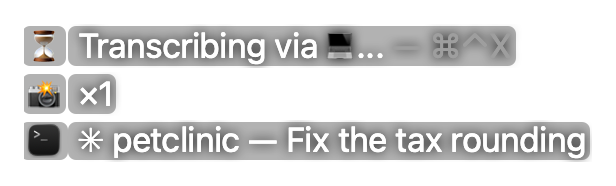
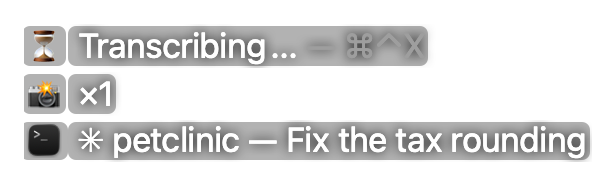
The local model's wait row is the plain `Transcribing...` — no via, no 💻
Victor: "Vreau in tooltip doar Transcribing... Fără emoji de laptop și fără via.
Să pară via doar dacă folosim serviciile cloud, gen [Wispr] Flow sau ElevenLabs.
Altfel să stea doar simplificat". AppDelegate.mark(engine:) sends an empty mark
for the local model, on the Transcribing row only; the Prompting row, the 💻
flashes and the ⌘⌃X hints are unchanged.

Changed region(s): [[0.4318, 0.1344, 0.8636, 0.3763]]

diff --git a/Sources/WalkieTalkie/OverlayStates.swift b/Sources/WalkieTalkie/OverlayStates.swift
@@ -388,7 +388,7 @@ enum OverlayStates {
                  note: "**`📻 Ready for more` is the top row** (2026-10-21, `Ready` until 2026-10-22, Victor: *\"even though it's transcribing, in the tooltip you should suggest ready whenever I could start talking again by displaying the walkie-talkie at the top of the list … literally saying ready\"*). The walkie and the row's ordinary ink, above the wait — **no green since 2026-10-22**, and the yellow flash of a changed row when it comes up (Victor: *\"să nu fie cu verde, ci același fond ca de obicei … flash-ul e galben ca de obicei și dispare\"*) — **on the word `Ready` alone** since 2026-10-23 (*\"cuvântul ready, nu și ready for more\"*), shown here at its brightest. Up from 0.8 s after the stop (a start sooner is the same click) until the words land; never with nothing transcribing, so the chip at rest is what it always was. Not shown while two sentences are already in flight.",
                  shape: "chip", alpha: 0.80) { o in
                 o.setBound(label: "petclinic", folder: "petclinic@main", title: "✳ petclinic — Fix the tax rounding", icon: terminal)
-                o.setEngineMark(" via \(Glyphs.Engine.mac.rawValue)")
+                o.setEngineMark("")   // the local model: no `via`, no 💻 (2026-11-22)
                 o.setTranscribing(true)
                 o.setReadyForNext(true)
                 o.setShotCount(1)
@@ -433,12 +433,12 @@ enum OverlayStates {
 
             Shot(slug: "transcribing-fallback-now", group: "Dictating", title: "Fallback to local — the budget ran out",
                  when: "The count reached zero with the engine's words still out and the local decode not quite done.",
-                 note: "**At `now` the engine on the line is this Mac** (2026-10-22, Victor: *\"când treci la modelul local, în transcribing să înlocuiești … cu calculatorul … zici now și efectiv înlocuiești motorul cu local\"*): `Transcribing via 💻... — ⌘⌃X` (one laptop: the mark says it, 2026-10-23; `now` went 2026-10-27). `now`: the local words go in the moment the decode ahead finishes — usually already done at zero, so this frame lasts a few hundred milliseconds at most. A local model that heard nothing leaves the sentence to the engine and the row goes.",
+                 note: "**At `now` the engine on the line is this Mac** (2026-10-22, Victor: *\"când treci la modelul local, în transcribing să înlocuiești … cu calculatorul … zici now și efectiv înlocuiești motorul cu local\"*): `Transcribing... — ⌘⌃X` — the cloud's `via <logo>` goes and nothing takes its place since 2026-11-22 (Victor: *\"Fără emoji de laptop și fără via. Să pară via doar dacă folosim serviciile cloud\"*; `via 💻` from 2026-10-23, `now` went 2026-10-27). `now`: the local words go in the moment the decode ahead finishes — usually already done at zero, so this frame lasts a few hundred milliseconds at most. A local model that heard nothing leaves the sentence to the engine and the row goes.",
                  shape: "chip", alpha: 0.80) { o in
                 o.setBound(label: "petclinic", folder: "petclinic@main", title: "✳ petclinic — Fix the tax rounding", icon: terminal)
                 o.setTranscribing(true)
                 o.setShotCount(1)
-                o.setEngineMark(" via \(Glyphs.Engine.mac.rawValue)")
+                o.setEngineMark("")   // the local model: no `via`, no 💻 (2026-11-22)
                 o.pinTranscribeWarmth(1.0)
                 o.setLocalNow(true, countdown: 0)
             },

diff --git a/docs/overlay-states.html b/docs/overlay-states.html
@@ -525,7 +525,7 @@
         </header>
         <div class="shot"><img src="states/transcribing-fallback-now.png" width="308" height="93" style="opacity:0.8" alt="Fallback to local — the budget ran out"></div>
         <p class="when">The count reached zero with the engine&#x27;s words still out and the local decode not quite done.</p>
-        <p class="note"><strong>At <code>now</code> the engine on the line is this Mac</strong> (2026-10-22, Victor: <em>&quot;când treci la modelul local, în transcribing să înlocuiești … cu calculatorul … zici now și efectiv înlocuiești motorul cu local&quot;</em>): <code>Transcribing via 💻... — ⌘⌃X</code> (one laptop: the mark says it, 2026-10-23; <code>now</code> went 2026-10-27). <code>now</code>: the local words go in the moment the decode ahead finishes — usually already done at zero, so this frame lasts a few hundred milliseconds at most. A local model that heard nothing leaves the sentence to the engine and the row goes.</p>
+        <p class="note"><strong>At <code>now</code> the engine on the line is this Mac</strong> (2026-10-22, Victor: <em>&quot;când treci la modelul local, în transcribing să înlocuiești … cu calculatorul … zici now și efectiv înlocuiești motorul cu local&quot;</em>): <code>Transcribing... — ⌘⌃X</code> — the cloud&#x27;s <code>via &lt;logo&gt;</code> goes and nothing takes its place since 2026-11-22 (Victor: <em>&quot;Fără emoji de laptop și fără via. Să pară via doar dacă folosim serviciile cloud&quot;</em>; <code>via 💻</code> from 2026-10-23, <code>now</code> went 2026-10-27). <code>now</code>: the local words go in the moment the decode ahead finishes — usually already done at zero, so this frame lasts a few hundred milliseconds at most. A local model that heard nothing leaves the sentence to the engine and the row goes.</p>
         <code class="slug">transcribing-fallback-now</code>
       </section>
       <section class="card" id="listening-wispr-starting">
@@ -896,7 +896,7 @@
       </section>
     </div>
 <footer>
-  Generated from <code>OverlayStates.swift</code> · repo at 69068a35 · 22 Nov 2026 · built 22 Nov 2026, 11:18
+  Generated from <code>OverlayStates.swift</code> · repo at aea69dde · 22 Nov 2026 · built 22 Nov 2026, 11:29
 </footer>
 <button class="toggle" onclick="document.body.classList.toggle('light')">Backdrop: dark / light</button>
 </body>

diff --git a/Tests/WalkieTalkieTests/DictationEditorTests.swift b/Tests/WalkieTalkieTests/DictationEditorTests.swift
@@ -138,10 +138,17 @@ final class DictationEditorTests: XCTestCase {
         XCTAssertEqual(DictationEditor.message("x", nil, vocabulary: v), "<vocabulary>Devoxx, Rentea</vocabulary>\n<replacements>GVT → JWT</replacements>\n<dictation>x</dictation>")
     }
 
-    /// Two phases on one row: `Transcribing via <logo>...`, then `Redacting...` (2026-11-22).
-    func testTheWaitRowSaysTranscribingThenRedacting() {
+    /// The wait row's three strings (2026-11-22): plain for the local model,
+    /// `via <logo>` for a cloud engine, then `Redacting...`.
+    func testTheWaitRowsThreeStrings() {
         let gap = String(Glyphs.dotsGap)
-        XCTAssertEqual(RelayWindow.transcribeWord(engineMark: " via E"), "Transcribing via E\(gap)...")
+        let local = AppDelegate.mark(engine: "whisper")
+        XCTAssertEqual(local, "", "the local model: no via, no laptop")
+        XCTAssertEqual(RelayWindow.transcribeWord(engineMark: local), "Transcribing\(gap)...")
+        for (id, logo) in [("eleven", Glyphs.Engine.eleven), ("eleven-live", .eleven), ("wispr", .wispr)] {
+            XCTAssertEqual(RelayWindow.transcribeWord(engineMark: AppDelegate.mark(engine: id)),
+                           "Transcribing via \(logo.rawValue)\(gap)...", id)
+        }
         XCTAssertEqual(RelayWindow.redactingWord, "Redacting\(gap)...", "no engine mark, no tool's name")
     }
 

diff --git a/Sources/WalkieTalkie/AppDelegate.swift b/Sources/WalkieTalkie/AppDelegate.swift
@@ -364,7 +364,13 @@ final class AppDelegate: NSObject, NSApplicationDelegate {
     /// its own settings. Victor: *"poate să fie un pic mincinos să zici că
     /// asculți la microfonul lui Walkie … ar trebui să-i citești microfonul
     /// activ al lui Wispr"*. See `pushMicMark`.
-    private static func mark(engine id: String) -> String { " via " + engineMark(id) }
+    ///
+    /// **The local model has no mark: the row is the plain `Transcribing...`**
+    /// (2026-11-22, Victor: *"Vreau in tooltip doar Transcribing... Fără emoji
+    /// de laptop și fără via. Să pară via doar dacă folosim serviciile cloud,
+    /// gen [Wispr] Flow sau ElevenLabs. Altfel să stea doar simplificat"*). Only
+    /// this row — `Prompting → 💻` keeps its laptop (`pushMicMark`).
+    static func mark(engine id: String) -> String { id == "whisper" ? "" : " via " + engineMark(id) }
 
     /// **Whose microphone the chip names: whoever is doing the hearing.**
     /// Wispr is, while it holds a sentence (`isRecording`, or `wisprHearing` for

diff --git a/.claude/rules/overlay-chip.md b/.claude/rules/overlay-chip.md
@@ -63,7 +63,7 @@ yields to `--label`).
 | bound to a terminal | the destination app's icon + `petclinic@main`; the 🤖 is *replaced*. See *What the chip says when bound* |
 | bound to an app with no readable directory (a blind-paste target) | the icon + the app's own name — the one case where the icon has no subject beside it |
 | dictating | `🎤 Prompting → ⬮...` — the device emoji, then the recogniser's logo (see *The microphone breathes in front of the word*, below); **which microphone is hearing him** (2026-09-22 evening; `Listening(<glyph>/<letter>)...` from 2026-09-19, the letter alone from 2026-09-18). 🎙 Elgato Wave XLR · 💻 the built-in · 🎤 the DJI receiver · 🎧 Bose. A device that is none of the four leaves the mark empty and the row is the plain `Listening...` — *listening to* with nothing after it is worse than not saying it. **Pushed in as a string by `AppDelegate`** — the chip may not ask which device it means (`RelayWindow.setMicMark`), and it is re-read at every `dictationBegan`, because cables move between sentences. **The glyph is drawn as a picture** (`Glyphs.emoji` → `inline`, cached in `wordGlyphs`), never as a character in the string, and it is **always lit** while the letters ramp: a picture has no unlit state that reads as *not yet*, and dimming it by alpha is the halo problem the opaque grey exists to avoid |
-| transcribing | `Transcribing via <logo>...` — **which recogniser is actually reading it** (2026-09-22 evening). The logo is drawn in **exactly the row's ink** (`Glyphs.Engine` → `Glyphs.engine`, cached per colour in `wordGlyphs`): ElevenLabs' pause-in-a-ring, Wispr Flow's five bars traced off its own icon, 💻 for the local model (with `ᵥ` for non-published weights). Pushed as a string by `AppDelegate` (`setEngineMark`), carried as a **private-use character** so the chip still cannot branch on which engine it is; `transcribeString` gained `applyEngineText`'s *non-ASCII is a picture* branch the day the mark landed on this row, because until then every character in it was ASCII |
+| transcribing | `Transcribing via <logo>...` for a cloud engine, **the plain `Transcribing...` when the local model reads it** (2026-11-22; `via 💻` until then) — **which recogniser is actually reading it** (2026-09-22 evening). The logo is drawn in **exactly the row's ink** (`Glyphs.Engine` → `Glyphs.engine`, cached per colour in `wordGlyphs`): ElevenLabs' pause-in-a-ring, Wispr Flow's five bars traced off its own icon. Then `✍ Redacting...` while the Redactor rewrites a plain dictation. Pushed as a string by `AppDelegate` (`setEngineMark`), carried as a **private-use character** so the chip still cannot branch on which engine it is; `transcribeString` gained `applyEngineText`'s *non-ASCII is a picture* branch the day the mark landed on this row, because until then every character in it was ASCII |
 | the dictation was cancelled | `🗑 Cancelled` in the row `Listening…` was in — 1.5 s, swapped in and out **in one frame**; the oblique wipe that used to carry it both ways was removed on 2026-09-18 (*The chip swaps in one frame*). The 🗑 came back on 2026-09-02: it was dropped while a flash still drew the lone 🎙 title row above it, where Apple's lid-flying-off bin read as a second glyph on a two-glyph line; that row no longer appears under a flash, so the bin is the row's only picture |
 | dictating in Replace Wispr | **the drawn map pin alone** (2026-10-22, *"nu mai vreau să scrie efectiv caret, doar să apară acea iconiță"* — `identity` answers `""` for `caret` behind `pinGlyph` — `bind to send` keeps its words; `caret` behind it until then, `at caret` until 2026-10-04) — the same slot a spawn takes, and for the same reason |
 
@@ -349,6 +349,17 @@ yields to `--label`).
   it, and the logo **fills with it** since 2026-10-01 (it was always lit until then). The 💻, a colour
   emoji with no ink to take, is drawn at 35 % alpha until its step lights (`wordGlyph(lit:)`,
   2026-10-07, Victor: *"the laptop … should have a faded form and then it turns bright"*).
+- **The local model's row is the plain `Transcribing...` — no `via`, no 💻** (2026-11-22, Victor:
+  *"Vreau in tooltip doar Transcribing... Fără emoji de laptop și fără via. Să pară via doar dacă
+  folosim serviciile cloud, gen [Wispr] Flow sau ElevenLabs. Altfel să stea doar simplificat"*).
+  `AppDelegate.mark(engine:)` answers `""` for `whisper`, so the chip still does not know which
+  engine it is. **Only this row**: `Prompting → 💻`, the `💻 Fell back to local` / `Used local`
+  flashes, `💻 local in 3s` and the grey `— ⌘⌃X` tail keep theirs. A cloud sentence the local model
+  takes over mid-wait (the budget's `now`, ⌘⌃X, a failure) loses its `via <logo>` and nothing takes
+  its place; the bar keeps its **fraction** (`steps = count × warmth`, recomputed at the relayout),
+  so fewer letters are lit on the shorter word but the edge does not move back. Shots
+  `transcribing-ready`, `transcribing-fallback-now`; pinned by
+  `DictationEditorTests.testTheWaitRowsThreeStrings`.
 - **`✍ Redacting...` is the wait row's second phase** (2026-11-22, Victor: *"e mult text acolo … pe
   durata redacting-ului, îmi scrii «redacting» și-l colorezi iarăși"*; `Transcribing and redacting`
   for an hour before — never put it back). `Transcribing via <logo>...` is unchanged, Redactor on or
@@ -445,7 +456,7 @@ yields to `--label`).
   Victor: *"să se vadă minim 2 s"* — two showings in three lasted ≤ 1 s).
 - **The local fallback's shortcut is on the `Transcribing` line** while there is one: `Transcribing via <mark>...
   — ⌘⌃X` (`localNowInline`, `AutoLocal.inlineText`, grey — not part of the bar); the
-  `localNowRow` only while the sentence records. At `now` AppDelegate sets the engine mark to 💻.
+  `localNowRow` only while the sentence records. At `now` AppDelegate sets the engine mark to the local model's — 💻 until 2026-11-22, empty since (the plain `Transcribing...`).
   **No 💻 and no seconds on that line since 2026-10-27** (Victor: *"să nu mai spui emoji-ul de laptop,
   … nici câte secunde, că e stresant, ci doar progress bar-ul … lasă scurtătura cu gri la final, după
   un MDash"*) — `💻 in 3s ⌘⌃X` before; the bar is the countdown. Never put the digits back.

diff --git a/docs/journal.md b/docs/journal.md
@@ -16719,3 +16719,11 @@ measured 1.2–3.9 s on four). Up after the request leaves, down after the paste
 cost: one relayout at each edge, ink only between. He also believes the redactor runs only after a
 local transcription; in the code it runs for ElevenLabs too (`applies`: everything but Wispr Flow) —
 left as is, reported to him.
+
+## 2026-11-22 — The local model's wait is the plain `Transcribing...`
+
+Victor: *"Vreau in tooltip doar Transcribing... Fără emoji de laptop și fără via. Să pară via doar
+dacă folosim serviciile cloud, gen [Wispr] Flow sau ElevenLabs. Altfel să stea doar simplificat."*
+`AppDelegate.mark(engine:)` sends an empty mark for the local model, on the `Transcribing` row only;
+`via 💻` (2026-10-22's *"înlocuiești motorul cu local"*) is superseded — at the fallback's `now` the
+cloud's logo now simply goes. The `Prompting → 💻` row and the 💻 flashes are unchanged.
